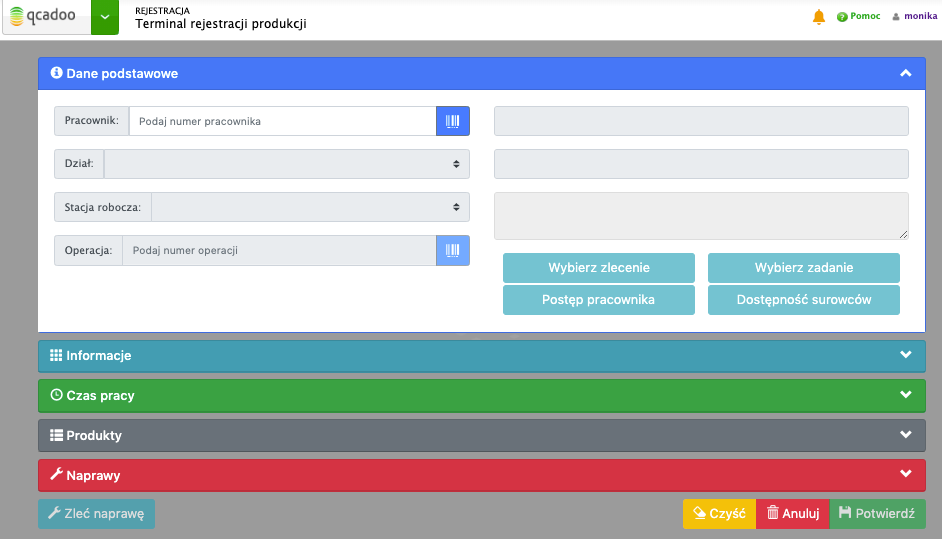
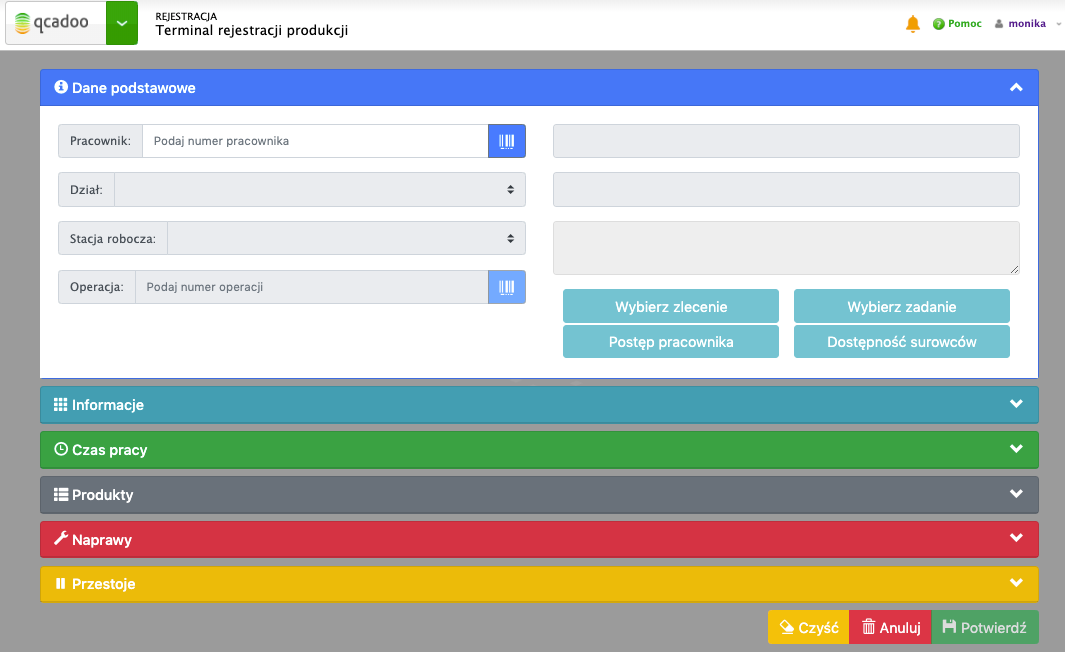
FAQ

diff --git a/index.md b/index.md
@@ -145,7 +145,7 @@ Qcadoo MES to internetowa aplikacja do zarządzania produkcją dla Małych i Śr
                         </div>
                         <div id="collapseOne" class="panel-collapse collapse noCrossRef">
                             <div class="panel-body">
-                                Dla zleceń możemy wygenerować rozliczenie produkcji, które gromadzi raporty i zestawienia z produkcji. Natomiast z poziomu zleceń, możemy się dowiedzieć o wyprodukowanej ilości i zużytych surowcach, a jeżeli zlecenia posiada komponenty, to na zakładce „Powiązane zlecenia”, dowiemy się na które komponenty produkcja jest w toku lub się zakończyła.
+                                Jeśli zależy Ci na szybkim ustaleniu jakie zlecenia są już zrealizowane a nad jakimi prace trają - wystarczy, że zerkniesz do listy zleceń produkcyjnych czy zadań operacyjnych. Tam oprócz ilości wykonanych i pozostałych do wyprowowania, dostaniesz informację o procencie wykonania (dla lepszego zobrazowania - podkreślonego kolorem). Jeśli chcesz wiedzieć który pracownik zajmuje się jakim zadaniem - zerknij do listy rejestracji produkcji. Jeśli chcesz wiedzieć, czy są opóźnienia w realizacji zadań - sprawdź wykres Gantta dla zadań operacyjnych. Jeśli zastanawiasz się dlaczego dana maszyna nie pracuje - zerknij, czy nie zaewidencjonowano przestoju. Jesteś ciekawy jakie koszty zostały poniesione podczas produkcji - wykonaj rozliczenie produkcji.  Dla zleceń możemy wygenerować rozliczenie produkcji, które gromadzi raporty i zestawienia z produkcji. A może zeknij do modułu analiz i sprawdź w jaki jeszcze sposób qcadoo pomoże Ci kontrolować bieżącą produkcję. 
                             </div>
                         </div>
                     </div>
@@ -157,19 +157,55 @@ Qcadoo MES to internetowa aplikacja do zarządzania produkcją dla Małych i Śr
                         </div>
                         <div id="collapseTwo" class="panel-collapse collapse noCrossRef">
                             <div class="panel-body">
-                                System umożliwia nam zaplanowanie produkcji za pomocą Gantta, gdzie metodą Drag&Drop mamy możliwość ustalenia dnia rozpoczęcia produkcji, lini oraz godziny. Poza tym istnieje możliwość zaplanowania produkcji dla zmian lub wspomóc się obliczeniami czasochłonności.
+                                qcadoo pozwala na planowanie produkcji wg dwóch podejść - planujesz albo całe zlecenia, przypisując je do linii, albo poszczególne operacje, przydzielając je na maszyny czy pracowników. To, na jaki system pracy się zdecydujesz, wpływa na to z jakich narzędzi będziesz mógł korzystać. Wykres Gantta zleceń, wykres Gantta zadań operacyjnych, algorytm planowania na stację roboczą i pracownika, rozpisywanie produkcji na zmianę na podstawie norm wydajnościowych, kalkulacja czasochłonności wyliczająca czas trwania zlecenia - to tylko niektóre funkcje, z których będziesz mógł skorzystać tworząc plany. 
                             </div>
                         </div>
                     </div>
                     <div class="panel panel-default">
                         <div class="panel-heading">
                             <h4 class="panel-title">
-                                <a class="noCrossRef accordion-toggle" data-toggle="collapse" data-parent="#accordion" href="#collapseThree">Czy system umożliwia wygenerowanie analiz bądź raportów?</a>
+                                <a class="noCrossRef accordion-toggle" data-toggle="collapse" data-parent="#accordion" href="#collapseThree">Czy system umożliwia wygenerowanie analiz z produkcji?</a>
                             </h4>
                         </div>
                         <div id="collapseThree" class="panel-collapse collapse noCrossRef">
                             <div class="panel-body">
-                                Tak, w systemie mamy dostęp do wielu analiz oraz raportów. Możemy je pobrać w formacie PDF lub CSV. Elementem, który kumuluje te wszystkie informacje jest Rozliczenie produkcji.
+                                Tak, w systemie mamy moduł analiz, pozwalający na bieżące kontrolowanie sytuacji na produkcji. Ponadto na podstawie zaraportowanych danych podczas produkcji można wykonać obszerny raport rozliczenia produkcji w Excelu. A jeśli interesują Cię zestawienia przed uruchomieniem produkcji, np. w celu przygotowania oferty dla klientów, to zapewne spodoba Ci się kalkulacja kosztów na podstawie technologii. 
+                            </div>
+                        </div>
+                    </div>
+                    <div class="panel panel-default">
+                        <div class="panel-heading">
+                            <h4 class="panel-title">
+                                <a class="noCrossRef accordion-toggle" data-toggle="collapse" data-parent="#accordion" href="#collapseFour">Jak przekazać pracownikom zadania do realizacji?</a>
+                            </h4>
+                        </div>
+                        <div id="collapseFour" class="panel-collapse collapse noCrossRef">
+                            <div class="panel-body">
+                                Przede wszystkim polecamy używanie terminala rejestracji produkcji - widoczne są w nim zarówno zlecenia jak i zadania operacyjne. Terminal gwarantuje zawsze aktualne dane, łatwość użycia, a także ograniczenie niepotrzebnych papierowych wydruków. Jeśli jednak nie możesz pozwolić sobie na terminal - skorzystaj z kart pracy czy wydruku listy zleceń / zadań (wcześniej ukryj kolumny, które nie są potrzebne). Możesz dodatkowo dorzucić wydruk zapotrzebowania materiałowego. Możesz również dać dostęp pracownikom do qcadoo i pokazać im plany bezpośrednio w systemie (nawet na wykresie Gantta).
+                            </div>
+                        </div>
+                    </div>
+                    <div class="panel panel-default">
+                        <div class="panel-heading">
+                            <h4 class="panel-title">
+                                <a class="noCrossRef accordion-toggle" data-toggle="collapse" data-parent="#accordion" href="#collapseFive">W jaki sposób wprowadzane są do systemu dane z produkcji?</a>
+                            </h4>
+                        </div>
+                        <div id="collapseFive" class="panel-collapse collapse noCrossRef">
+                            <div class="panel-body">
+                                Na dwa sposoby - albo pracownik bezpośrednio rejestruje informacje za pomocą terminala rejestracji produkcji (tu możesz wprowadzić dodatkowy etap potwierdzania meldunków np. przez brygadzistę), albo zapisuje wszystko na wydrukach kart pracy i przekazuje do osób odpowiedzialnych za wprowadzenie danych do qcadoo. I wówczas ewidencjonowane są bezpośrednio do listy rejestracji produkcji.
+                            </div>
+                        </div>
+                    </div>
+                    <div class="panel panel-default">
+                        <div class="panel-heading">
+                            <h4 class="panel-title">
+                                <a class="noCrossRef accordion-toggle" data-toggle="collapse" data-parent="#accordion" href="#collapseSix">Jak wygląda obsługa qcadoo w przypadku prowadzenia magazynówki w systemie ERP?</a>
+                            </h4>
+                        </div>
+                        <div id="collapseSix" class="panel-collapse collapse noCrossRef">
+                            <div class="panel-body">
+                                System qcadoo może współpracować z systemami klasy ERP. Aby tak się stało musimy udostępnić Ci konektor i przeprowadzić proces synchronizacji. Skontaktuj się z nami a ustalimy jakie są niezbędne kroki. Warto wiedzieć, że są realizowane dwa podejścia do integracji - pierwsze zakłada, że magazynówka prowadzona jest tylko i wyłącznie w ERP. qcadoo, gdy potrzebuje informacje o stanach, to po nie sięga. Tworzy też w ERP dokumenty magazynowe będące efektem raportowanej produkcji. Drugie podejście zakłada, że qcadoo wszystie dokumenty i całą magazynówkę prowadzi u siebie. Dane synchronizowane są poprzez ręczne przesłanie dokumentów (ręczne - czyli ręczne wywołanie funkcji w qcadoo). O tym jakie podejście do integracji będzie funkcjonowało u Ciebie decydujesz sam, odpowiednio ustawiając parametry. 
                             </div>
                         </div>
                     </div>

diff --git a/pages/rejestracja-produkcji/terminal.md b/pages/rejestracja-produkcji/terminal.md
@@ -226,6 +226,25 @@ Jeśli dla danego działu zaplanowano realizację zleceń naprawy, to będą one
 
 ---
 
+### Przestoje
+
+{% include lightbox.html file="rejestracjaTerminalPrzestoje.png" alt="Naprawy" caption="Terminal - naprawy" class="float-right"  %}
+
+Realizujesz zlecenie i nagle maszyna się zatrzymuje. Awaria. Co robisz? Oczywiście zgłaszasz problem do Działu Utrzymania Ruchu. Ale też - ewidencjonujesz [przestój](/przestoje). Dzięki temu na etapie rozliczania produkcji będzie wiadomo dlaczego zlecenie jest opóźnione, albo dlaczego tak mało sztuk zostało wytworzonych na zmianie. 
+Przestoje mogą być związane też z innymi sytuacjami - np. przerwą obiadową, spotkaniem działowym, koniecznością przyjęcia dostawy, uzupełnieniem surowca w maszynie, czekaniem na instrukcję wykonania zadania, czy po prostu przerwą na siku. Ustal wewnętrznie jakie sytuacje muszą być zarejestrowane. Pamiętaj, że im dokładniej wyznaczycie czasy pracy i czasy niepracujące, tym wskaźnik OEE będzie lepiej odwierciedlał faktyczne wykorzystanie maszyny.
+
+Aby zarejestrować przestój wskaż zlecenie lub zadanie, którym się zajmujesz. Następnie rozwiń obszar Przestoje i kliknij przycisk {% include inline_image.html file="przyciskRozpocznijPrzestoj.png" alt="Rozpocznij przestój" %} **Rozpocznij**. W uruchomionym oknie uzupełniona będzie data początku przestoju (jeśli chcesz - możesz ją edytować). Podaj [przyczynę przestoju](/przyczyny-przestojow) i **Zapisz**.
+
+{% include callout.html content="Jeśli nie znalazłeś w przyczynach przestoju właściwej, wybierz 'Inne' i wyjaśnij w opisie co konkretnie się wydarzyło" type="warning" %}
+
+I potwierdź standardowo rejestrację w terminalu. Przestój zostanie zapisany w zleceniu. Jeśli będziesz mógł wrócić do realizacji zadania (bo np. maszyna zostanie naprawiona) wróć do terminala, wskaż zlecenie / zadanie i kliknij przycisk {% include inline_image.html file="przyciskZakonczPrzestoj.png" alt="Zakończ przestój" %} **Zakończ**. Pojawi się znane Ci już okno przestoju, a w nim uzupełniona data zakończenia i wyliczony czas trwania. Zapisz przestój i standardowo potwierdź rejestrację z terminala.
+
+Zarejestrowane przestoje widoczne są w tabeli w obszarze Przestoje. Jeśli chcesz zmienić, zaznacz wiersz w tabeli i kliknij przycisk {% include inline_image.html file="przyciskEdytujPrzestoj.png" alt="Edytuj przestój" %} **Edytuj**.
+
+---
+
+## Zakończenie pracy z terminalem
+
 Aby zapisać wprowadzone dane kliknij **Potwierdź**. Aby cofnąć to co zostało wpisane w meldunku (do momentu wczytania operacji/zlecenia) kliknij **Czyść**. Aby wyczyścić wszystkie dane w terminalu kliknij **Anuluj**.
 
 O terminalu wiesz już prawie wszystko. A za chwilę będziesz już specjalistą w tym temacie. W tym celu przeczytaj jeszcze kilka wskazówek:

diff --git a/pages/kontrola-jakosci/kontrola-jakosci-wstep.md b/pages/kontrola-jakosci/kontrola-jakosci-wstep.md
@@ -1,0 +1,12 @@
+---
+title: "Kontrola jakości"
+permalink: kontrola-jakosci-wstep.html 
+---
+
+Moduł kontroli jakości pozwala na nadzorowanie jakości wytworzonych produktów. Podstawą kontroli jakości są [atrybuty](/atrybuty). Sam decydujesz o tym jakie parametry chcesz sprawdzać i jakie wartości mogą być dla nich uzupełniane. Aby wiadomo było jaki zestaw cech musi być skontrolowany dla danego produktu, definiowane są karty jakości. I na ich podstawie przeprowadzana jest kontrola jakości. 
+
+Produkty mogą być kontrolowane w dwóch trybach:
+1. **kontrola bieżąca** - pracownicy na etapie realizacji produkcji muszą sprawdzić pewne parametry i zanotować efekty. Aby tak się stało musisz atrybuty z karty jakości przydzielić do operacji w technologii. Możesz albo wprowadzać odrębne operacje KJ albo wskazać co trzeba sprawdzić w ramach standardowo wykonywanych czynności. Decyzja należy do Ciebie. Podczas rejestracji produkcji, np. w terminalu, pracownik dostanie informacje co ma sprawdzić i będzie mógł zapisać efekty swoich testów. A Ty na bieżąco będziesz mógł sprawdzać, analizując utworzoną kontrolę jakości, jak wyglądają prace nad produktem i czy czasami nie pojawiły się jakieś problemy. I w porę reagować
+2. **kontrola końcowa** - to kontrola przeprowadzana na już istniejących wyrobach. Czyli typowo realizowane przez komórkę kontroli jakości. Zasoby aktualnie testowane są blokowane - nie można ich wykorzystywać do dalszej produkcji, czy w celach sprzedaży. 
+
+Efektem kontroli jakości jest wydanie oceny jakości. Jakiej? To też oddajemy w Twoje ręce. Zdefiniuj listę możliwych ocen (np. jakość pierwsza, jakość druga, nadające się do sprzedaży, uszkodzone...) - zasoby poddane kontroli będą zawierały o niej informacje. Jeśli dział kontroli jakości uzna, że produkt nie spełnia norm pamiętaj, aby przesunąć je z magazynu na inny magazyn, przekazać do utylizacji, czy zarządzić naprawę. Ten etap zostawiamy Tobie - tak byś na bieżąco mógł uruchomić odpowiednią ścieżkę pod daną sytuację.

diff --git a/pages/planowanie/zlecenia-produkcyjne/zlecenia-produkcyjne.md b/pages/planowanie/zlecenia-produkcyjne/zlecenia-produkcyjne.md
@@ -104,7 +104,7 @@ Jakie są plusy stosowania tego podejścia do produkcji?
 
 W jaki sposób wygenerować zlecenia na komponenty? Możesz je wygenerować ręcznie lub zlecić wygenerowanie nam. Zacznijmy od generowania ręcznego. Wykorzystasz tutaj [pokrycie zapotrzebowania](/pokrycie-zapotrzebowania). W zleceniu produkcyjnym kliknij przycisk {% include inline_image.html file="przyciskPokrycieZapotrzebowania.png" alt="Przycisk Pokrycie zapotrzebowania" %} **Pokrycie zapotrzebowania**, ustaw daty, wygeneruj pokrycie i kliknij przycisk {% include inline_image.html file="przyciskGenerujZlecenia.png" alt="Przycisk Generuj zlecenia" %} **Generuj zlecenia**. Jeśli na liście produktów potrzebnych do realizacji są komponenty i ich stan magazynowy na moment rozpoczęcia zlecenia głównego nie jest wystarczający zostaną założone odpowiednie zlecenia. 
 
-{% include callout.html content="Generowanie zleceń na komponenty odbywa się krok po kroku w dół drzewa technologii. Jeśli na jakimś etapie uznamy, że nie potrzebujemy zlecenia na wyprodukowanie komponentu, nie będziemy analizować etapów wcześniejszych." type="info" %}
+{% include callout.html content="Generowanie zleceń na komponenty odbywa się krok po kroku w dół drzewa technologii. Jeśli na jakimś etapie uznamy, że nie potrzebujemy zlecenia na wyprodukowanie komponentu, nie będziemy analizować etapów wcześniejszych." type="warning" %}
 
 Z poziomu pokrycia zapotrzebowania zlecenia na komponenty zostaną utworzone tylko wtedy, gdy ich stan magazynowy nie będzie wystarczający. Jeśli natomiast zależy Ci na tym, by zlecenia te były generowane każdorazowo, niezależnie od stanu, użyj do generowania opcji {% include inline_image.html file="przyciskZleceniaNaKomponenty.png" alt="Przycisk Zlecenia na komponenty" %} **Zlecenia na komponenty**. Po wejściu do okna kliknij przycisk {% include inline_image.html file="przyciskGenerujZlecenia.png" alt="Przycisk Generuj zlecenia" %} **Generuj zlecenia na komponenty**.
 

diff --git a/pages/administracja/parametry/parametry-terminal.md b/pages/administracja/parametry/parametry-terminal.md
@@ -16,10 +16,13 @@ Parametry terminala konfigurują [terminal rejestarcji produkcji](/terminal). We
 
 4. **Nie pokazuj zadań pobranych przez innego pracownika** - parametr przydatny w sytuacji, gdy zadania realizowane są zawsze przez jednego pracownika i są zaplanowane do wykonania na dany dzień, ale nie wskazany jest wykonawca. Zaznacz parametr, a zadania pobrane przez jednego pracownika, nie będą prezentowane innym pracownikom. Ustawienie tego parametru będzie można zmienić w samym terminalu - w razie gdybyś wyjątkowo chciał dorejestrować produkcję do czynności wykonywanej przez kogoś innego.
 
-5. **Pokaż w terminalu** - wskaż jakie przyciski lub obszary chcesz w terminalu ukryć. Po co ukrywać? Im mniej rozpraszaczy pracownik otrzyma, tym sprawniej zarejestruje produkcję. Wyłączyć możesz:
+5. **Wybór zadań według dat zlecenia** - pracownicy w terminalu wybierają zadania operacyjne. Każde z tych zadań ma określone daty realizacji. Jednak zdarza się często, że czynności wykonywane są trochę później niż zaplanowano, wtedy, gdy zadanie w terminalu nie jest już widoczne. A nie masz możliwości by ciągle przeplanowywać daty operacji. Rozwiązaniem może być ten parametr. Zaznacz go, a zadania w terminalu będą prezentowane tak długo, jak będzie trwało całe zlecenie.
+
+6. **Pokaż w terminalu** - wskaż jakie przyciski lub obszary chcesz w terminalu ukryć. Po co ukrywać? Im mniej rozpraszaczy pracownik otrzyma, tym sprawniej zarejestruje produkcję. Wyłączyć możesz:
 - przycisk **Wybierz zlecenie**
 - przycisk **Wybierz zadanie**
 - przycisk **Postęp pracownika**
 - przycisk **Dostępność surowców**
 - obszar **Naprawy**
+- obszar **Przestoje**
 
